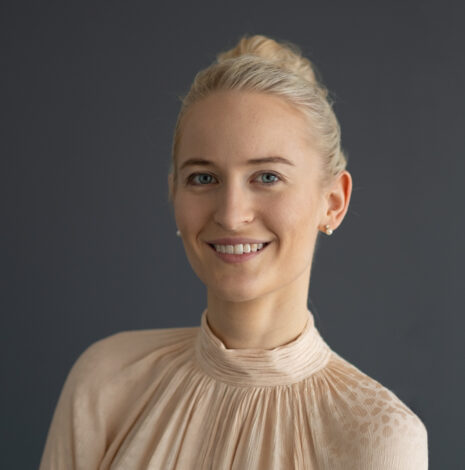
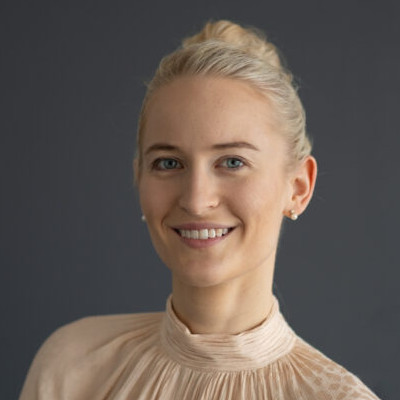
team update

Changed region(s): [[0.03, 0.03, 0.96, 1.0]]

diff --git a/team/index.html b/team/index.html
@@ -241,8 +241,8 @@ title: Borderless Research Team
 							<img src="Oyang.jpg">
 						</div>
 						<div class="caption">
-							<h3>Cheng Ouyang</h3>
-							<p>PhD Researcher</p>
+							<h3>Dr. Cheng Ouyang</h3>
+							<p>Postdoctoral Researcher</p>
 							<div class="social-links">
 								<a href="#"><i class="fab fa-facebook"></i></a>
 								<a href="#"><i class="fab fa-instagram"></i></a>
@@ -305,7 +305,7 @@ title: Borderless Research Team
 				<td>
 					<div class="profile-card">
 						<div class="img">
-							<img src="Sarah.png">
+							<img src="DSCF0352-Final-465x470.jpg">
 						</div>
 						<div class="caption">
 							<h3>Dr. Christine Müller</h3>
